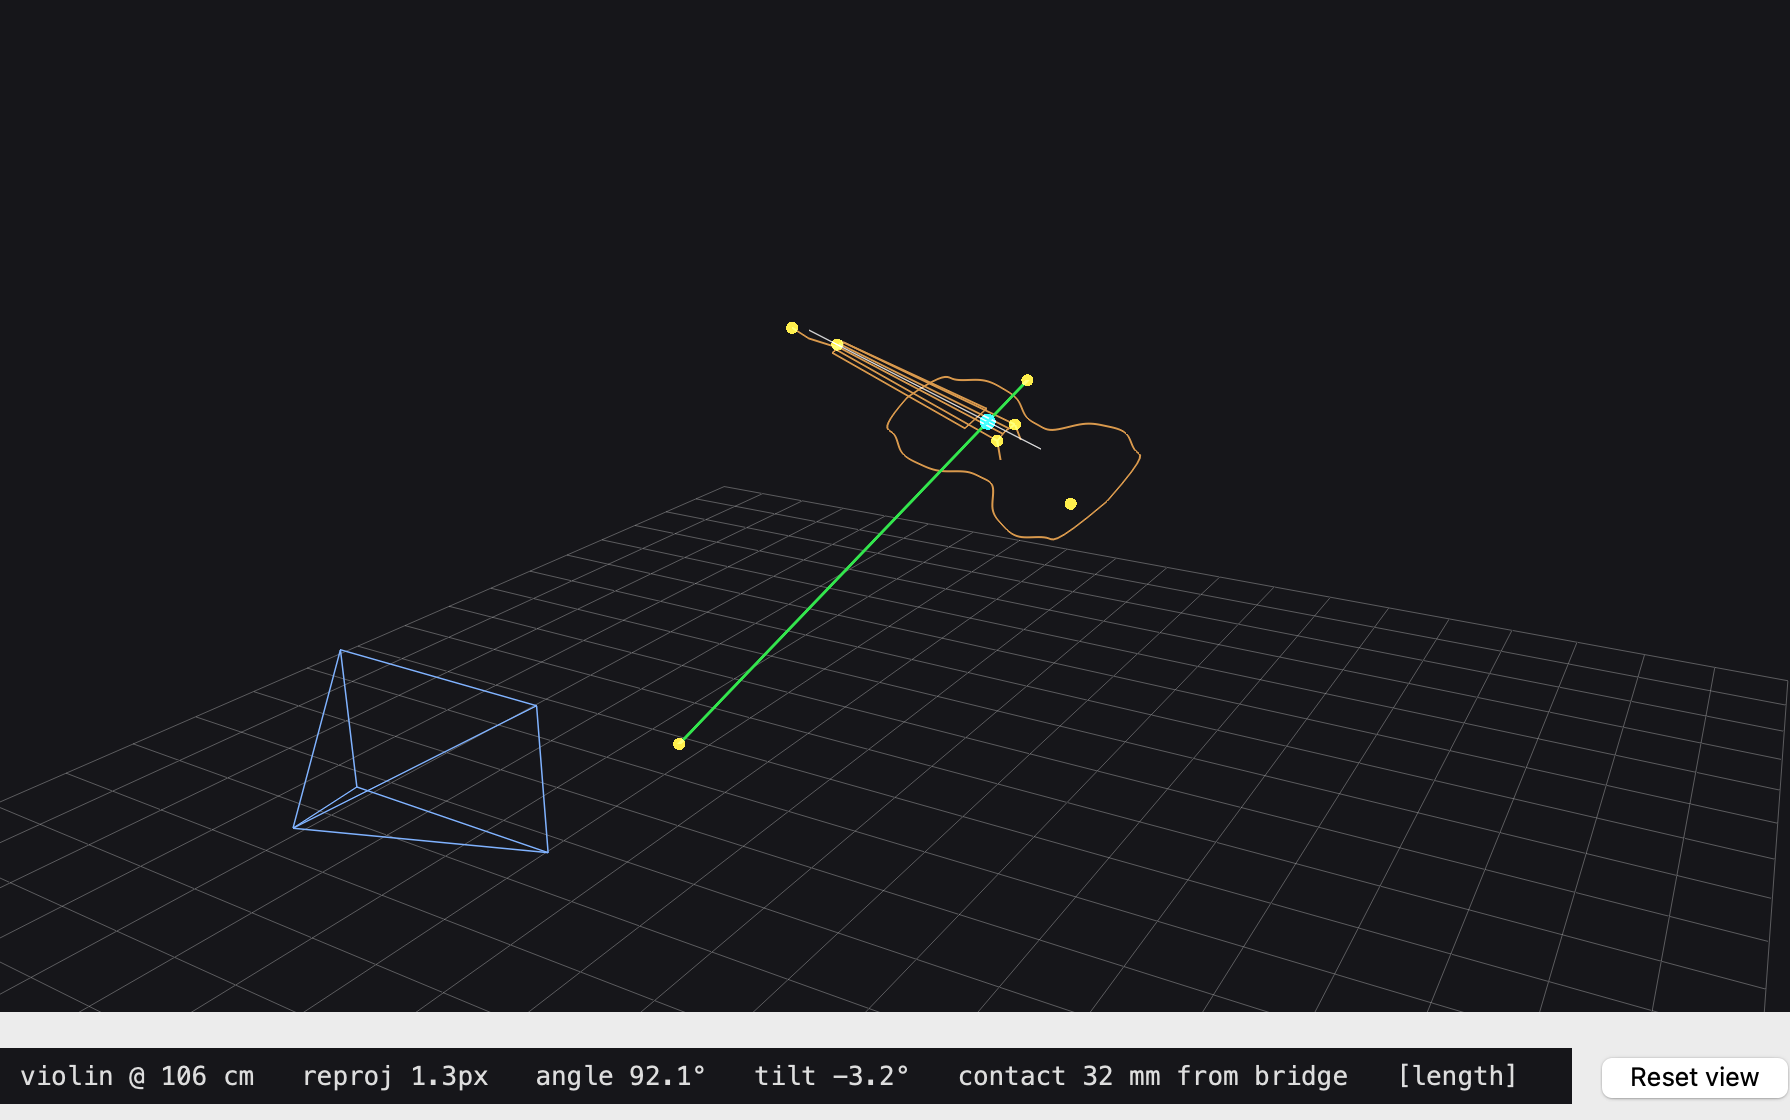
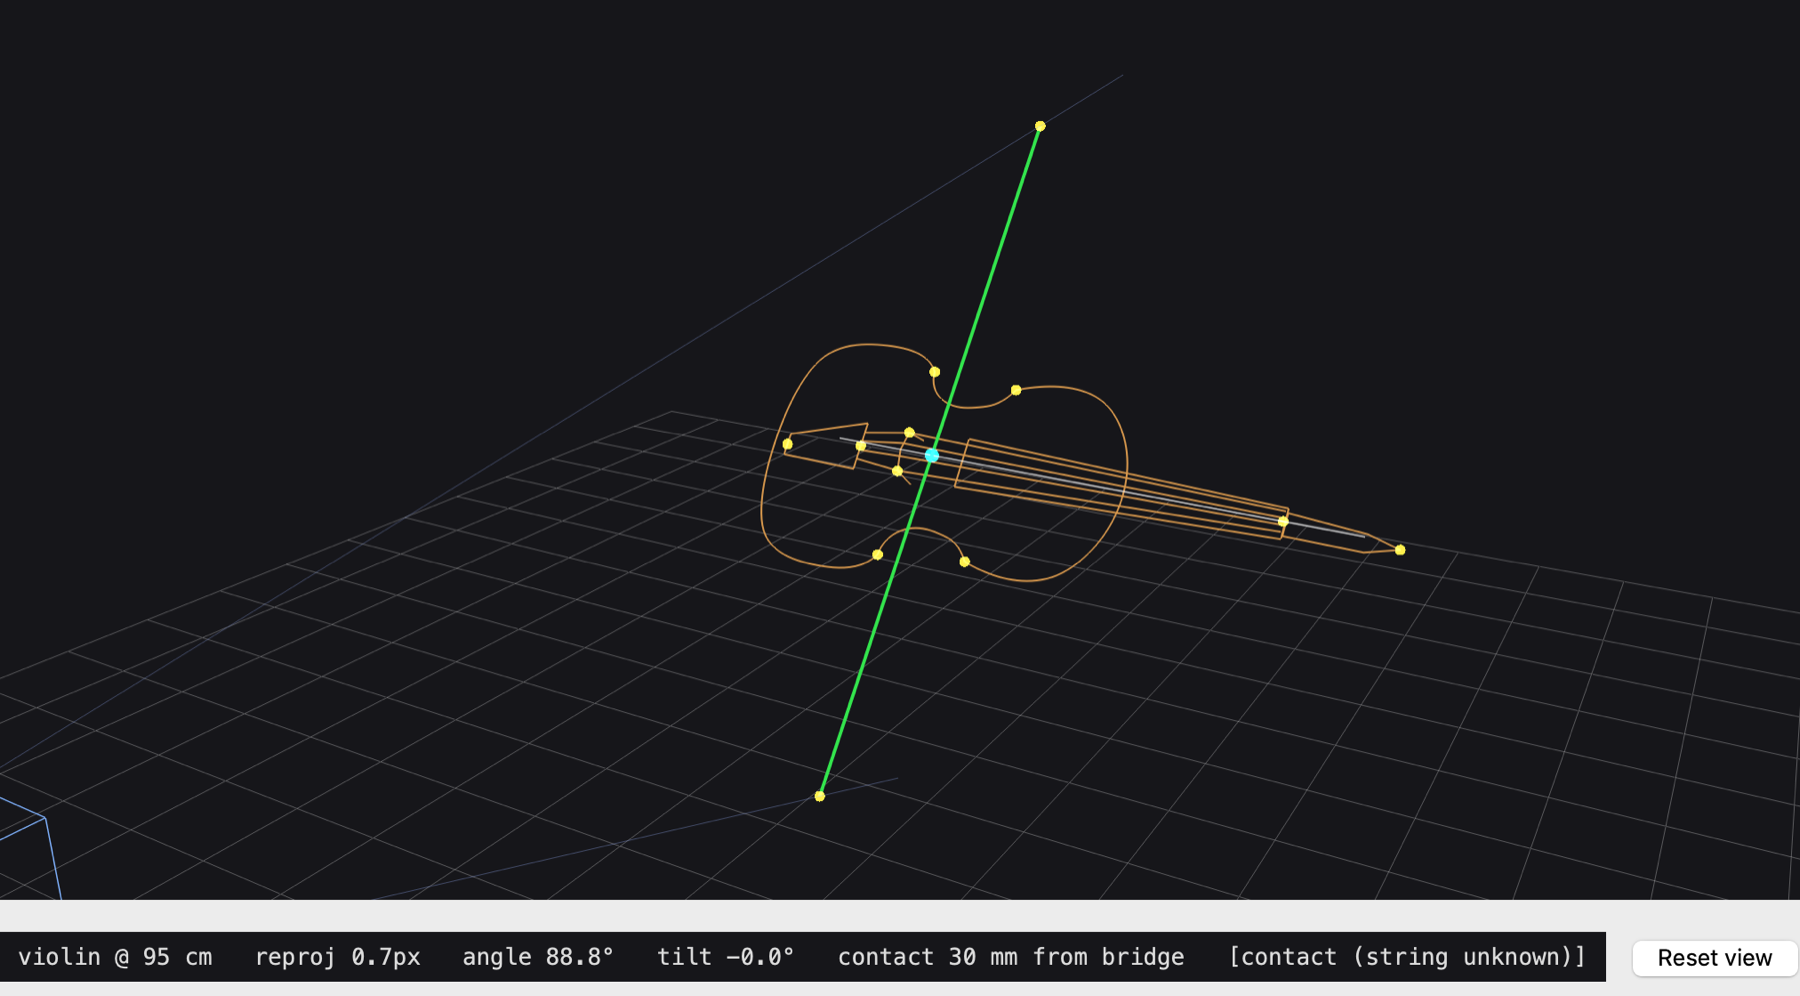
Refresh README screenshots; stop long measurements clipping the side panel
- New screenshots from the synthetic demo: straight bow with good
  position, bow angled with "Step closer", bow angled with "Turn your
  body", the 3D view, and checking a model-labelled frame in the
  Approved / To check labelling tools.
- Measurements text wraps (pre-wrap instead of <pre>), so a long line
  no longer widens the side panel and clips Approve and the tabs.
- Side panel is sized for its contents plus the scrollbar.

diff --git a/src/bowtrack/gui/main_window.py b/src/bowtrack/gui/main_window.py
@@ -7,6 +7,8 @@ annotation mode turns the same window into a labelling tool for training data.
 
 from __future__ import annotations
 
+import html
+
 import time
 from enum import Enum, auto
 from pathlib import Path
@@ -406,7 +408,9 @@ class MainWindow(QtWidgets.QMainWindow):
         scroll.setWidget(right_w)
         scroll.setWidgetResizable(True)
         scroll.setHorizontalScrollBarPolicy(QtCore.Qt.ScrollBarAlwaysOff)
-        scroll.setFixedWidth(350)
+        # Wide enough for the panel's contents plus the vertical scrollbar (so nothing is clipped on the right).
+        bar = scroll.style().pixelMetric(QtWidgets.QStyle.PM_ScrollBarExtent)
+        scroll.setFixedWidth(max(372, right_w.minimumSizeHint().width() + bar + 2 * scroll.frameWidth()))
 
         root = QtWidgets.QHBoxLayout()
         root.addLayout(left, 1)
@@ -1295,7 +1299,8 @@ class MainWindow(QtWidgets.QMainWindow):
                 lines.append(geo.message or "no bow")
         tol = self.feedback.tolerance
         lines += ["", f"target     {self.feedback.target:.0f}° ± {tol:.0f}°"]
-        self.info.setText("<pre>" + "\n".join(lines) + "</pre>")
+        # pre-wrap, not <pre>: a long line must wrap rather than widen the side panel (which clips its buttons).
+        self.info.setText("<div style='white-space:pre-wrap'>" + html.escape("\n".join(lines)) + "</div>")
 
     # ------------------------------------------------------------- cleanup
     def closeEvent(self, ev: QtGui.QCloseEvent) -> None:

diff --git a/README.md b/README.md
@@ -6,17 +6,26 @@ single camera, and measures the angle between the bow and the strings. A banner
 turns **green** when the bow is straight (90° ± tolerance), **red** when it drifts
 (and says which way), and **black** when no bow is visible.
 
-![GUI](docs/images/gui_demo.png)
+A second bar under the banner checks the **position**: whether the violin is close enough
+and turned so the bow angle can be measured accurately, and if not, what to change.
 
-| 3D view | Labelling tool |
+![Straight bow, good position](docs/images/gui_demo.png)
+
+| Bow angled, violin too far away | Bow angled, player turned away |
+|---|---|
+| ![too far](docs/images/gui_too_far.png) | ![turn](docs/images/gui_turn.png) |
+
+| 3D view | Labelling: checking a model-labelled frame |
 |---|---|
 | ![3D](docs/images/view3d.png) | ![labelling](docs/images/labelling.png) |
+
+*Screenshots use the built-in synthetic demo (no camera needed).*
 
 ## Why 3D?
 
 The webcam sees the violin obliquely, so the angle *in the image* is badly
-distorted. In the screenshot above the bow is 101.8° to the strings in 3D, but
-only 72° in the image. bowtrack measures the true 3D angle.
+distorted: in the synthetic demo the angle in the image is often about 30° away
+from the true angle between bow and strings. bowtrack measures the true 3D angle.
 
 ## Pipeline
 
